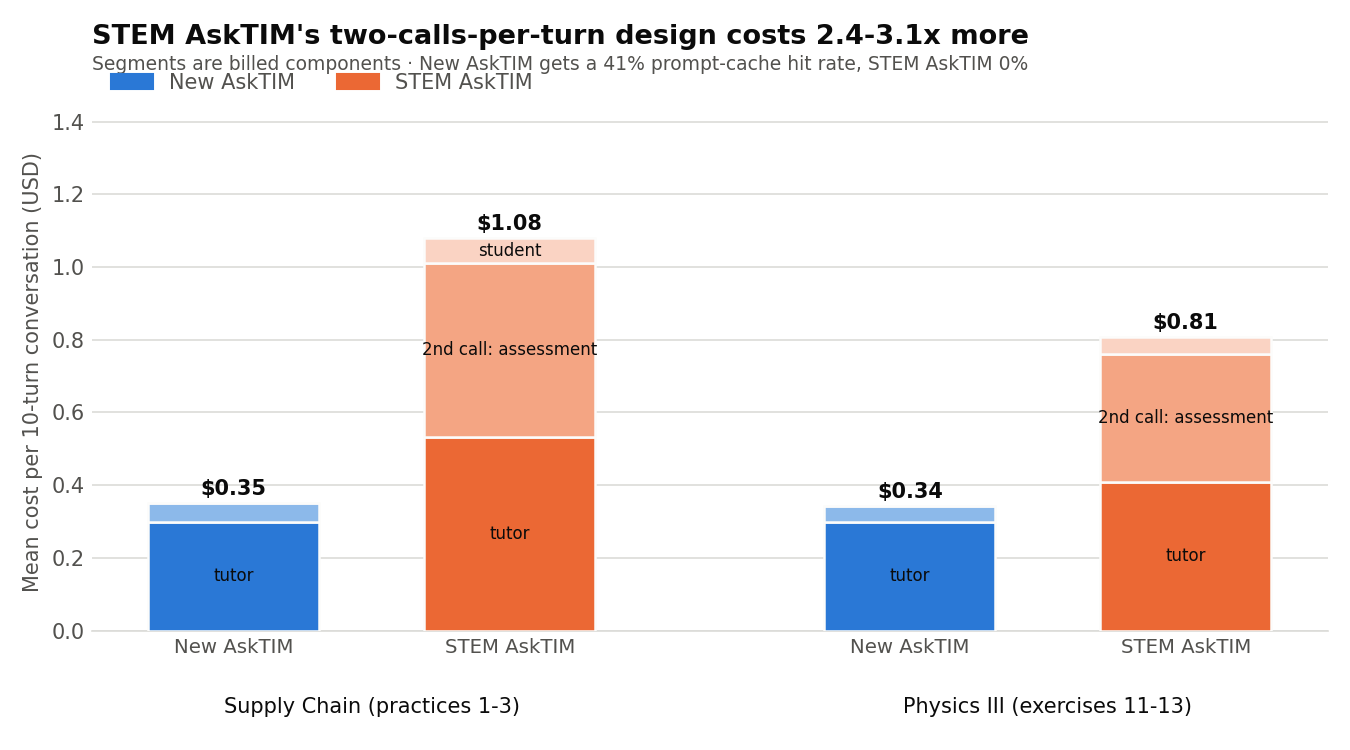
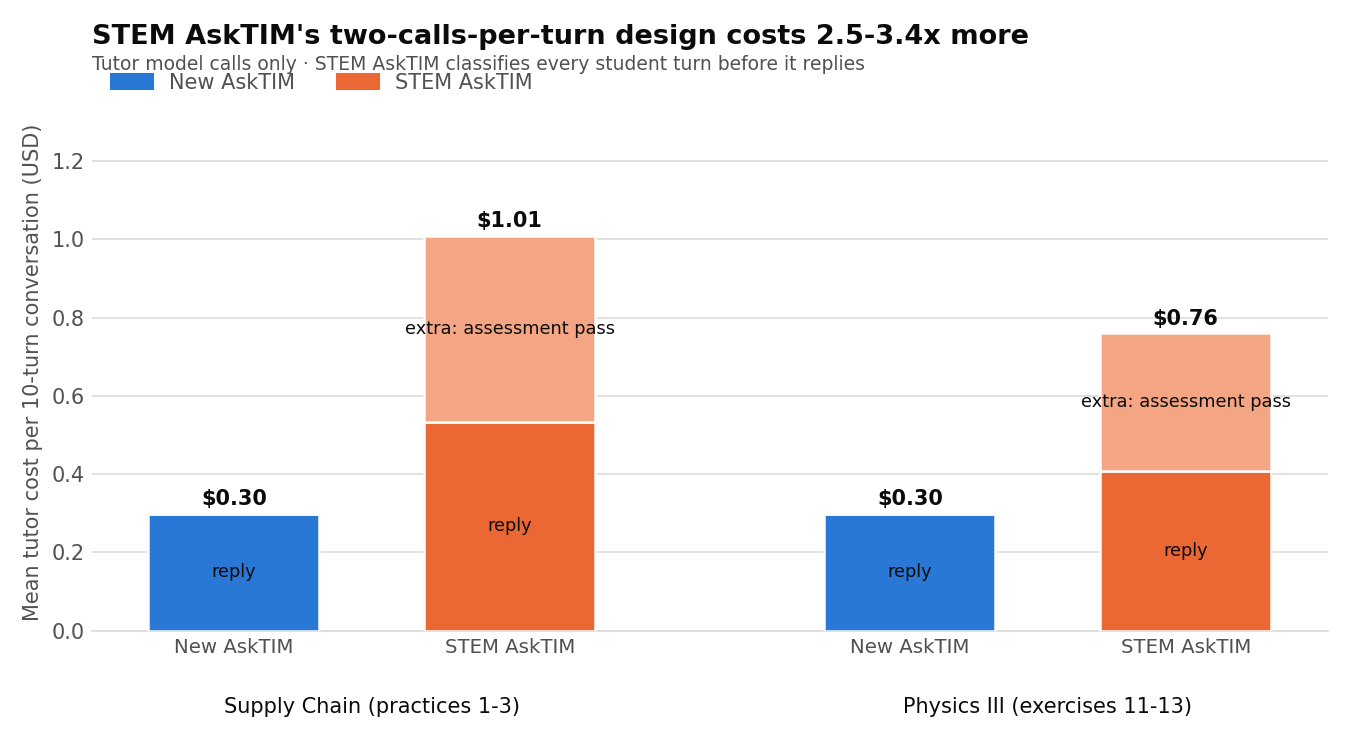
fix(viz): tutor-only cost, derived ratio, drop the distribution chart
Cost chart now bills only tutor-side model calls. The simulated student is a
harness artifact -- in production the student is a person -- so charging it
inflated both arms and understated the gap between them. New AskTIM $0.30/conv
vs STEM AskTIM $1.01 (SCD) and $0.76 (physics).

That shift moved the headline ratio from 2.4-3.1x to 2.5-3.4x, which the
hardcoded title would have silently misreported, so the ratio is now computed
from the rows it plots.

Relabels the segments "reply" and "extra: assessment pass". The assessment runs
*before* the reply -- it classifies the student turn into codes a-l, which map
deterministically to intents that the reply call then receives -- so the old
"2nd call" label had the order backwards.

Removes 05_score_distribution.

diff --git a/visualization/run_comparison_viz.py b/visualization/run_comparison_viz.py
@@ -10,7 +10,6 @@ is the earlier open-learning-ai-tutor generation.
     2. score by persona     — the lead is concentrated under pressure
     3. integrity cliff rate — why: 1.1.A.a answer-giving, per persona
     4. cost per conversation — the structural gap, and where it comes from
-    5. score distribution   — the floor, which the means hide
 
 Reads the graded transcripts written by ``internal_testing.run_transcript_rag``
 under ``transcripts/<type>/<type>_{cmp,phys}_{asktim,stem}/``.
@@ -75,6 +74,15 @@ class Row:
     cliff: bool
     usd: float
     cost_parts: tuple[tuple[str, float], ...]
+
+    @property
+    def usd_tutor_only(self) -> float:
+        """Cost of the tutor-side model calls, excluding the simulated student.
+
+        The student is a harness artifact — in production it's a person — so
+        billing it would inflate both arms and understate the ratio between them.
+        """
+        return sum(v for k, v in self.cost_parts if k != "student")
 
 
 def _load() -> list[Row]:
@@ -327,12 +335,14 @@ def chart_cost(rows: list[Row], plt) -> Path:
     call reads as the difference rather than needing a second axis.
     """
     courses = list(_ROUNDS)
-    order = ("tutor", "tutor_assessment", "student", "embedding")
+    # Tutor-side model calls only. The simulated student is a harness artifact —
+    # in production the student is a person, so billing it would overstate both
+    # arms and muddy the comparison. Embedding is New AskTIM's RAG query call
+    # (~$0.0002/conversation, invisible at this scale but real).
+    order = ("tutor", "tutor_assessment", "embedding")
     shade = {  # one hue per arm, stepped light->dark within the stack
-        ("asktim", "tutor"): "#2a78d6", ("asktim", "student"): "#8cb9ea",
-        ("asktim", "embedding"): "#c7dcf5",
+        ("asktim", "tutor"): "#2a78d6", ("asktim", "embedding"): "#c7dcf5",
         ("stem", "tutor"): "#eb6834", ("stem", "tutor_assessment"): "#f4a583",
-        ("stem", "student"): "#fad3c3",
     }
 
     fig, ax = plt.subplots(figsize=(9, 5))
@@ -354,9 +364,15 @@ def chart_cost(rows: list[Row], plt) -> Path:
                        color=shade.get((arm, comp), "#cccccc"),
                        edgecolor="#fcfcfb", linewidth=1.2, zorder=3)
                 if val > 0.06:
-                    ax.annotate(comp.replace("tutor_assessment", "2nd call: assessment"),
-                                (idx, bottom + val / 2), ha="center", va="center",
-                                fontsize=8, color="#0b0b0b")
+                    # The assessment pass runs *before* the reply, not after —
+                    # it classifies the student turn, then the reply is generated
+                    # from the resulting intent codes.
+                    seg = {
+                        "tutor": "reply",
+                        "tutor_assessment": "extra: assessment pass",
+                    }.get(comp, comp)
+                    ax.annotate(seg, (idx, bottom + val / 2), ha="center",
+                                va="center", fontsize=8.5, color="#0b0b0b")
                 bottom += val
             ax.annotate(f"${bottom:.2f}", (idx, bottom), textcoords="offset points",
                         xytext=(0, 4), ha="center", fontsize=10,
@@ -368,7 +384,7 @@ def chart_cost(rows: list[Row], plt) -> Path:
 
     ax.set_xticks(xs)
     ax.set_xticklabels(labels, color=_INK_SOFT, fontsize=9.5)
-    _style(ax, ylabel="Mean cost per 10-turn conversation (USD)", ymax=1.42)
+    _style(ax, ylabel="Mean tutor cost per 10-turn conversation (USD)", ymax=1.32)
     # Same legend, same place, on every chart in the set — the viewer learns
     # blue=ours once and it holds across the whole deck.
     handles = [
@@ -382,90 +398,22 @@ def chart_cost(rows: list[Row], plt) -> Path:
     for i, course in enumerate(courses):
         ax.text(xs[i * 2] + 0.5, -0.16, _ROUNDS[course].replace("\n", " "),
                 ha="center", fontsize=10, color=_INK, transform=ax.get_xaxis_transform())
+    # Ratio is derived, not hardcoded — it shifts whenever the component set does
+    # (dropping the simulated-student cost moved it from 2.4-3.1x to 2.5-3.4x).
+    ratios = sorted(
+        sum(r.usd_tutor_only for r in rows if r.arm == "stem" and r.round_key == c)
+        / max(1e-9, sum(r.usd_tutor_only for r in rows if r.arm == "asktim" and r.round_key == c))
+        for c in courses
+    )
     ax.set_title(
-        "STEM AskTIM's two-calls-per-turn design costs 2.4-3.1x more",
+        f"STEM AskTIM's two-calls-per-turn design costs {ratios[0]:.1f}-{ratios[-1]:.1f}x more",
         color=_INK, fontsize=13, fontweight="bold", loc="left", pad=34,
     )
     ax.text(0, 1.085,
-            "Segments are billed components · New AskTIM gets a 41% prompt-cache hit rate, STEM AskTIM 0%",
+            "Tutor model calls only · STEM AskTIM classifies every student turn before it replies",
             transform=ax.transAxes, color=_INK_SOFT, fontsize=9)
     fig.tight_layout()
     path = _OUT / "04_cost_per_conversation.png"
-    fig.savefig(path, dpi=150)
-    plt.close(fig)
-    return path
-
-
-# --------------------------------------------------------------------------- #
-# 5. The floor — what the means hide
-# --------------------------------------------------------------------------- #
-
-def chart_distribution(rows: list[Row], plt) -> Path:
-    """Per-conversation score spread, so the low tail is visible.
-
-    Both arms reach 40 at the top; they separate at the bottom. Means alone make
-    the tutors look closer than they behave, and for a student-facing tool the
-    worst case matters more than the average.
-    """
-    courses = list(_ROUNDS)
-    fig, axes = plt.subplots(1, 2, figsize=(11, 5.4), sharey=True)
-
-    for ax, course in zip(axes, courses):
-        data = [[r.score for r in rows if r.arm == arm and r.round_key == course]
-                for arm in _ARMS]
-
-        bp = ax.boxplot(
-            data, positions=[0, 1], widths=0.42, patch_artist=True,
-            showfliers=False, medianprops={"color": "#fcfcfb", "linewidth": 2},
-            whiskerprops={"color": _INK_SOFT, "linewidth": 1.2},
-            capprops={"color": _INK_SOFT, "linewidth": 1.2},
-            boxprops={"linewidth": 0},
-        )
-        for patch, arm in zip(bp["boxes"], _ARMS):
-            patch.set_facecolor(_ARM_COLOR[arm])
-            patch.set_alpha(0.85)
-
-        # Individual conversations, deterministically jittered so the shape of the
-        # low tail is visible rather than implied by a whisker.
-        for i, (arm, scores) in enumerate(zip(_ARMS, data)):
-            for j, s in enumerate(sorted(scores)):
-                offset = ((j % 7) - 3) * 0.035
-                ax.plot(i + offset, s, "o", markersize=4.5,
-                        color=_INK, alpha=0.45, zorder=4)
-            ax.annotate(
-                f"min {min(scores)}", (i, min(scores)), textcoords="offset points",
-                xytext=(0, -16), ha="center", fontsize=9.5, color=_INK,
-                fontweight="bold",
-            )
-
-        ax.set_xticks([0, 1])
-        ax.set_xticklabels([_ARM_LABEL[a] for a in _ARMS],
-                           color=_INK_SOFT, fontsize=10)
-        _style(ax, ylabel=f"Judge score (of {_MAX_SCORE})" if ax is axes[0] else "")
-        ax.set_ylim(12, 43)
-        ax.set_title(_ROUNDS[course].replace("\n", " "), color=_INK_SOFT,
-                     fontsize=11, loc="left")
-
-    handles = [
-        plt.Rectangle((0, 0), 1, 1, color=_ARM_COLOR[a], label=_ARM_LABEL[a])
-        for a in _ARMS
-    ]
-    axes[0].legend(
-        handles=handles, frameon=False, fontsize=10, labelcolor=_INK_SOFT, ncol=2,
-        loc="lower left", bbox_to_anchor=(0, 1.06),
-    )
-    fig.suptitle(
-        "Both reach 40 at their best — they separate at their worst",
-        color=_INK, fontsize=13, fontweight="bold", x=0.008, ha="left", y=0.985,
-    )
-    fig.text(
-        0.008, 0.93,
-        "Each dot is one conversation (27 per arm per course) · box spans the "
-        "middle 50%, white line is the median",
-        color=_INK_SOFT, fontsize=9,
-    )
-    fig.tight_layout(rect=(0, 0, 1, 0.87))
-    path = _OUT / "05_score_distribution.png"
     fig.savefig(path, dpi=150)
     plt.close(fig)
     return path
@@ -491,7 +439,6 @@ def main() -> int:
         chart_score_by_persona(rows, plt),
         chart_integrity_cliff(rows, plt),
         chart_cost(rows, plt),
-        chart_distribution(rows, plt),
     ):
         print(f"wrote {path.relative_to(_REPO_ROOT)}")
     return 0

diff --git a/visualization/README.md b/visualization/README.md
@@ -71,15 +71,14 @@ Rows are ordered with the same key as other tooling: persona type, full student 
 python -m visualization.run_comparison_viz
 ```
 
-Writes five charts to `visualization/outputs/comparison/`:
+Writes four charts to `visualization/outputs/comparison/`:
 
 | Chart | Shows |
 | --- | --- |
 | `01_score_by_course.png` | Mean judge score per course, both tutors (+4.5 SCD, +3.4 physics) |
 | `02_score_by_persona.png` | The lead is near-zero on cooperative students and widens on confused/adversarial ones |
 | `03_integrity_cliff.png` | How often each arm took the 12-point `1.1.A.a` answer-giving deduction |
-| `04_cost_per_conversation.png` | Stacked cost; STEM AskTIM's second per-turn assessment call is visible as its own segment |
-| `05_score_distribution.png` | Per-conversation spread — both arms reach 40, they separate at the floor |
+| `04_cost_per_conversation.png` | Stacked **tutor-side** cost; STEM AskTIM's per-turn assessment pass is its own segment. Excludes the simulated student (a harness artifact — in production the student is a person) |
 
 **Scope:** reads only what is on disk — the SCD *practices* and *physics* rounds,
 108 conversations (27 per arm per course). A third round (SCD exercises 1–3) was
